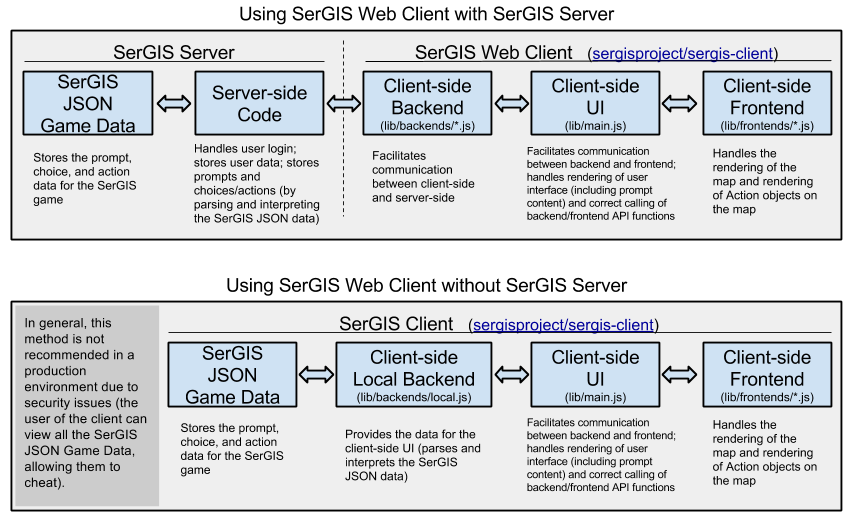
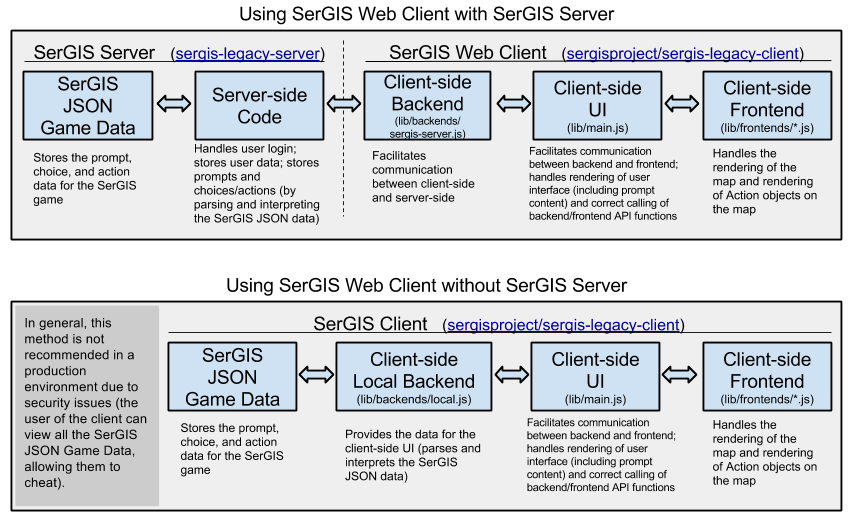
Updated for new repo links

diff --git a/404.html b/404.html
@@ -17,7 +17,7 @@
     <h1><a href="/">SerGIS Project</a></h1>
     <ul>
         <li><a href="/">Home</a></li>
-        <li><a href="/docs/">Docs</a></li>
+        <li><a href="/docs/">Game Engine Docs</a></li>
         <li><a href="/legacy-docs/">Legacy Docs</a></li>
         <li><a href="https://github.com/sergisproject">SerGIS Project on GitHub</a></li>
     </ul>

diff --git a/_layouts/sergis.html b/_layouts/sergis.html
@@ -24,7 +24,7 @@
     <h1><a href="/">SerGIS Project</a></h1>
     <ul>
         <li><a href="/">Home</a></li>
-        <li><a href="/docs/">Docs</a></li>
+        <li><a href="/docs/">Game Engine Docs</a></li>
         <li><a href="/legacy-docs/">Legacy Docs</a></li>
         <li><a href="https://github.com/sergisproject">SerGIS Project on GitHub</a></li>
     </ul>

diff --git a/legacy-docs/author.md b/legacy-docs/author.md
@@ -22,7 +22,20 @@ Each backend is a JavaScript object. It must be assigned to a JavaScript variabl
 
 | Function Name | Arguments | Return Value | Description
 | ------------- | --------- | ------------ | -----------
+| `init` | none | Promise | Initialize the backend (only called once, after the page is loaded).
 | `getGameList` | none | Promise&lt;Object&lt;string, Date&gt;&gt; | Get a list of all the user's games, returned in an object where the keys are the game names and the values are the "Last Modified" dates for each game.
 | `loadGame` | *`gameName` (string)* | Promise&lt;Object&gt; | Get the JSON data for a specific game, identified by its name.
 | `saveGame` | *`gameName` (string),* *`jsondata` (Object)* | Promise | Save new JSON data for a specific game, identified by name. (If the name already exists, it is overwritten.)
+| `renameGame` | *`gameName` (string),* *`newGameName` (string)* | Promise | Rename a game from an old name to a new name.
 | `removeGame` | *`gameName` (string)* | Promise | Remove a specific game, identified by its name.
+| `checkGameName` | *`gameName` (string)* | Promise&lt;number&gt; | Check whether a certain game name is valid for a new game. This should return `0` if the game name is already taken, `-1` if the game name is invalid, or `1` if the game name is all good and dandy.
+| `previewGame` (optional) | *`gameName` (string)* | Promise&lt;Object&gt; | Open up a preview of a game, identified by its name.
+| `publishGame` (optional) | *`gameName` (string)* | Promise&lt;Object&gt; | Publish a game, identified by its name.
+
+The Promises returned by `previewGame` and `publishGame` are resolved with an object representing an HTTP request. This object has the following properties:
+
+| Property Name | Type | Value
+| ------------- | ---- | -----
+| `url` | *string* | The URL to open.
+| `method` | *string* | The HTTP method to use for the request (default: "GET").
+| `data` | *object* | Any URL parameters or POST data to send with the request (default: {}).

diff --git a/index.md b/index.md
@@ -9,7 +9,7 @@ There are 2 sections of the SerGIS Project: the newer SerGIS Game Engine and the
 
 ## SerGIS Game Engine
 
-The SerGIS Game Engine is a node.js-based system for developing web-based interactive games. For more about it, see [sergis-game on GitHub](https://github.com/sergisproject/sergis-game).
+The SerGIS Game Engine is a node.js-based system for developing web-based interactive games. For development information related to SerGIS Game Engine, see the documentation on the [Game Engine Developer Docs page](docs/).
 
 ## SerGIS Legacy
 
@@ -17,8 +17,8 @@ This system is simpler than the SerGIS Game Engine. The structure of games in Se
 
 ### Parts of SerGIS Legacy
 
- - [SerGIS Legacy Web Client](https://github.com/sergisproject/sergis-client): The web-based client end of SerGIS Legacy, written using HTML and JavaScript
- - [SerGIS Legacy Author](/sergis-author/): The web-based authoring tool SerGIS Legacy JSON Game Data, written using HTML and JavaScript
- - [SerGIS Legacy Server](https://github.com/sergisproject/sergis-server): The server-side (node.js) component of SerGIS Legacy, for use with the SerGIS Legacy Web Client
+ - [SerGIS Legacy Web Client](https://github.com/sergisproject/sergis-legacy-client): The web-based client end of SerGIS Legacy, written using HTML and JavaScript
+ - [SerGIS Legacy Author](/sergis-legacy-author/): The web-based authoring tool SerGIS Legacy JSON Game Data, written using HTML and JavaScript
+ - [SerGIS Legacy Server](https://github.com/sergisproject/sergis-legacy-server): The server-side (node.js) component of SerGIS Legacy, for use with the SerGIS Legacy Web Client
 
 For development information related to SerGIS Legacy, see the documentation on the [Legacy Docs page](legacy-docs/).

diff --git a/legacy-docs/json.md b/legacy-docs/json.md
@@ -145,7 +145,7 @@ SerGIS JSON Game Data is a JSON file with a specific structure. The JSON data co
 
 ### Example
 
-An example can be seen in the [sergis-client repository](https://github.com/sergisproject/sergis-client), in [the testdata.json file](https://github.com/sergisproject/sergis-client/blob/master/lib/testdata.json) (or see an [older, commented version](https://github.com/sergisproject/sergis-client/blob/d030e08bfe084f669cd29225a55586ac0aebb5b7/testdata.js)).
+An example can be seen in the [sergis-legacy-client repository](https://github.com/sergisproject/sergis-legacy-client), in [the testdata.json file](https://github.com/sergisproject/sergis-legacy-client/blob/master/lib/testdata.json) (or see an [older, commented version](https://github.com/sergisproject/sergis-legacy-client/blob/d030e08bfe084f669cd29225a55586ac0aebb5b7/testdata.js)).
 
 
 

diff --git a/docs/index.md b/docs/index.md
@@ -1,0 +1,10 @@
+---
+layout: sergis
+title: Game Engine Developer Documentation
+---
+# Game Engine Developer Documentation
+
+See the GitHub repositories:
+
+- [sergisproject/game-engine](https://github.com/sergisproject/game-engine)
+- [sergisproject/game-engine-author](https://github.com/sergisproject/game-engine-author)
